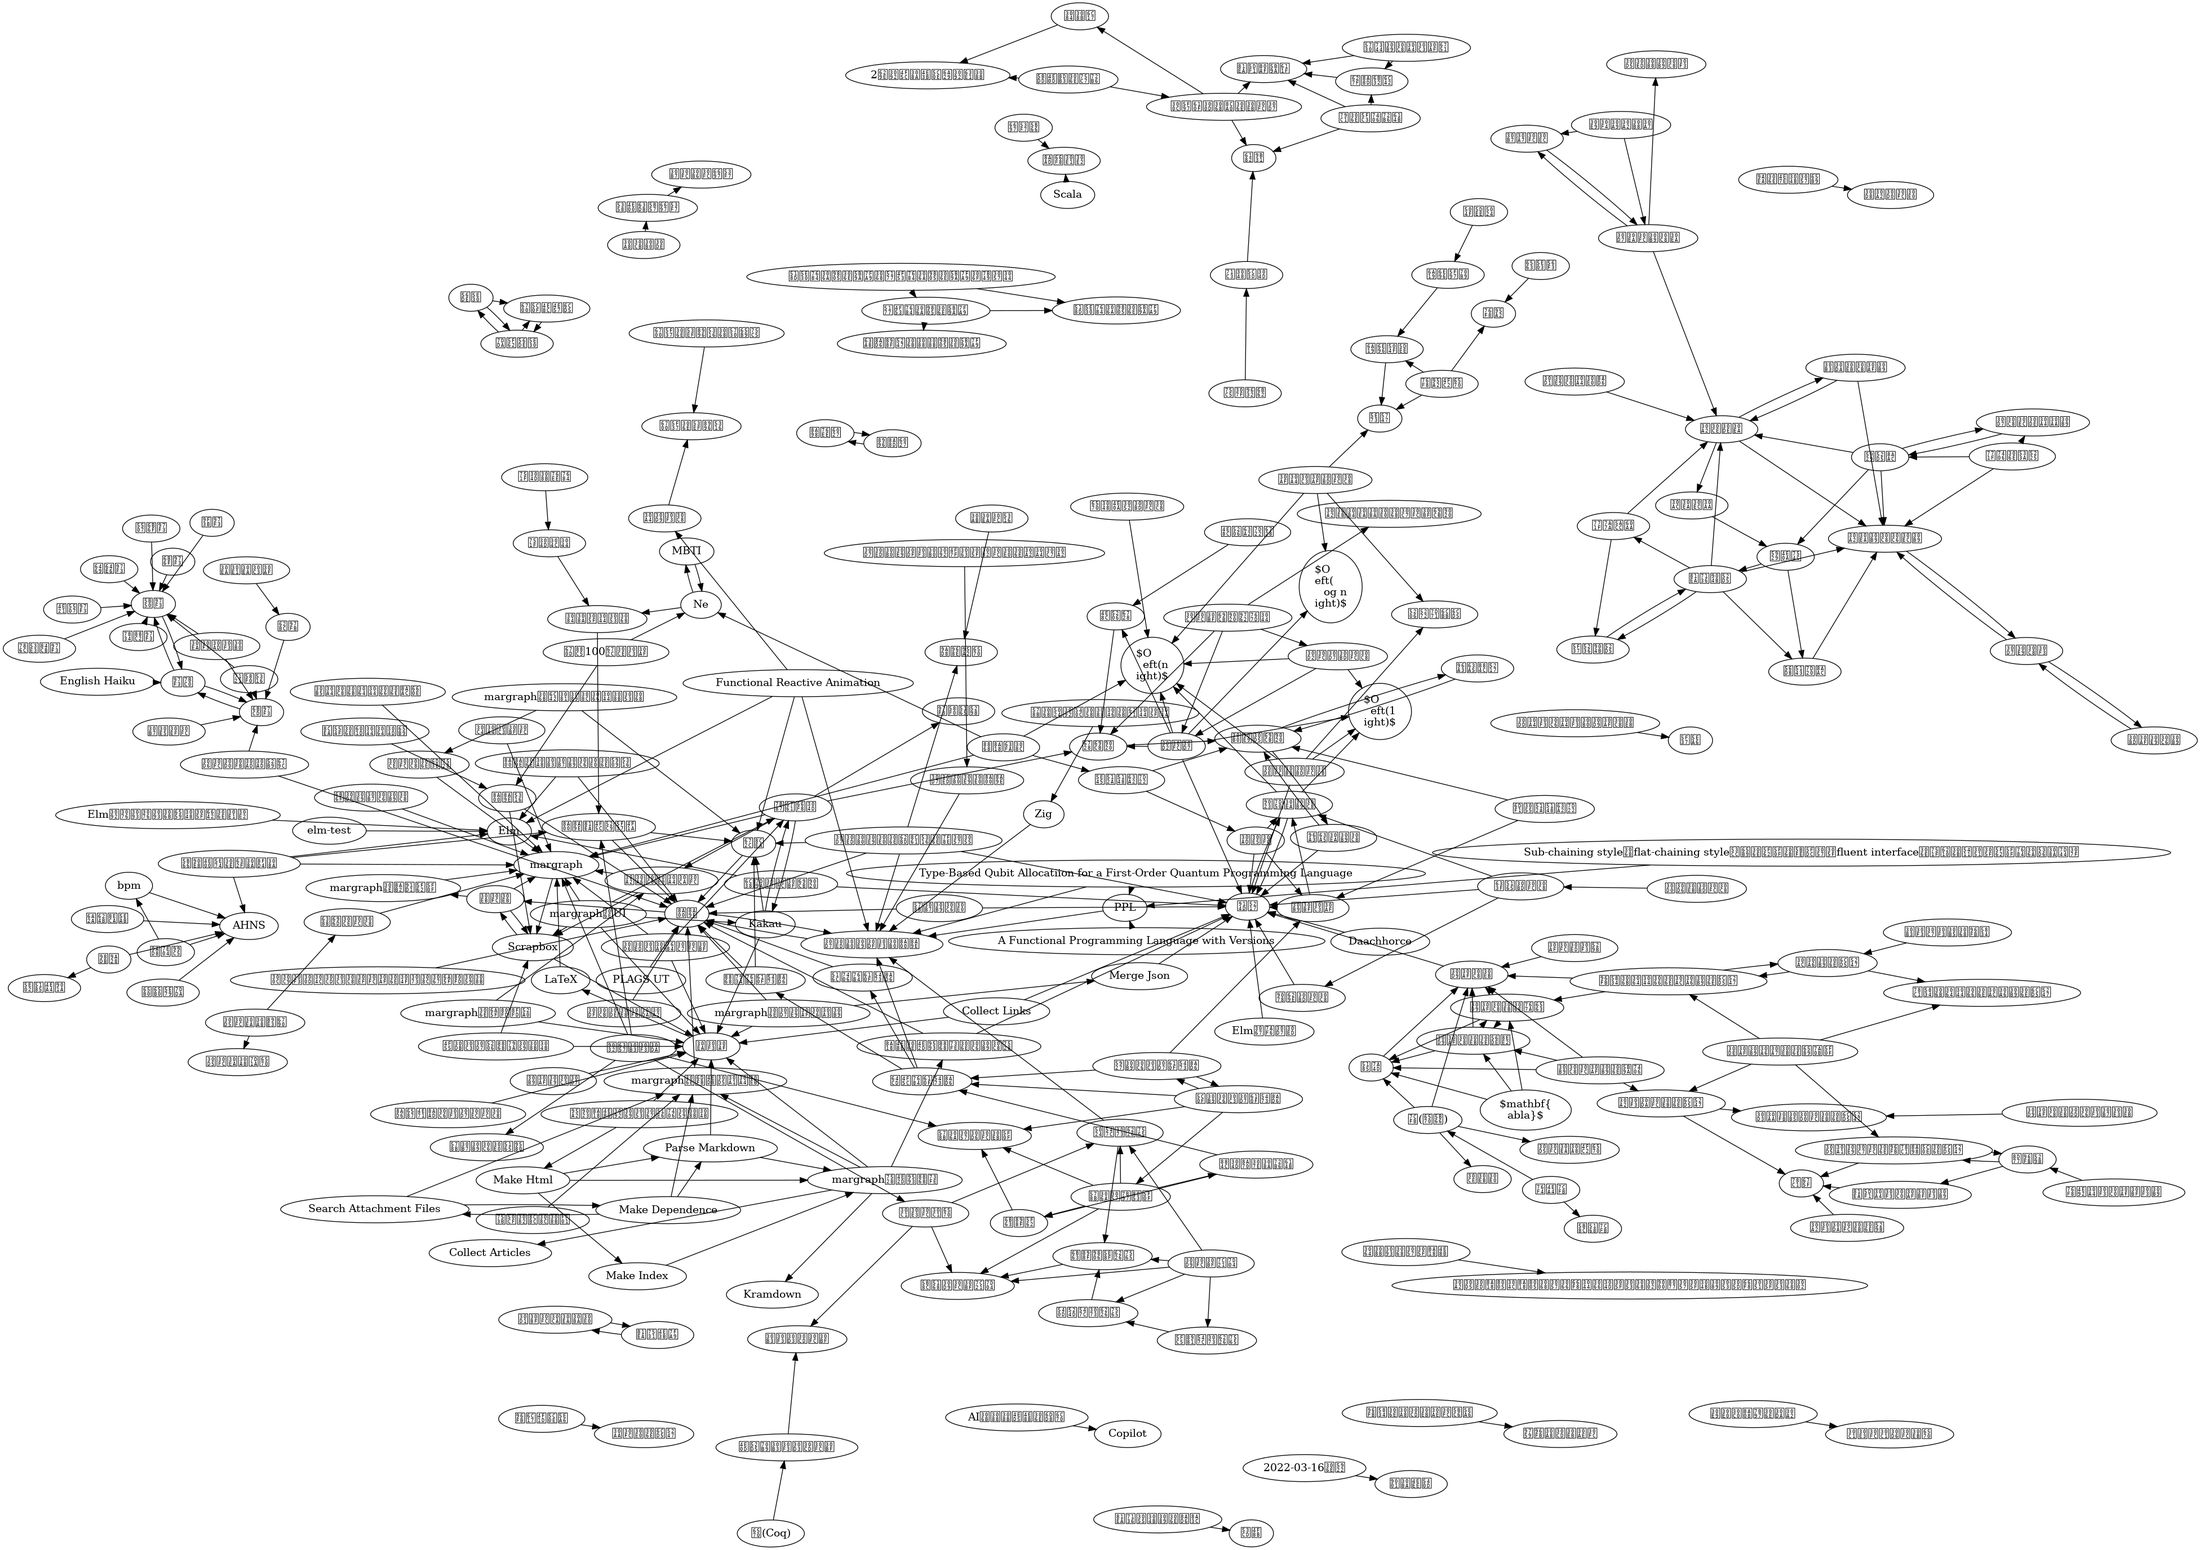
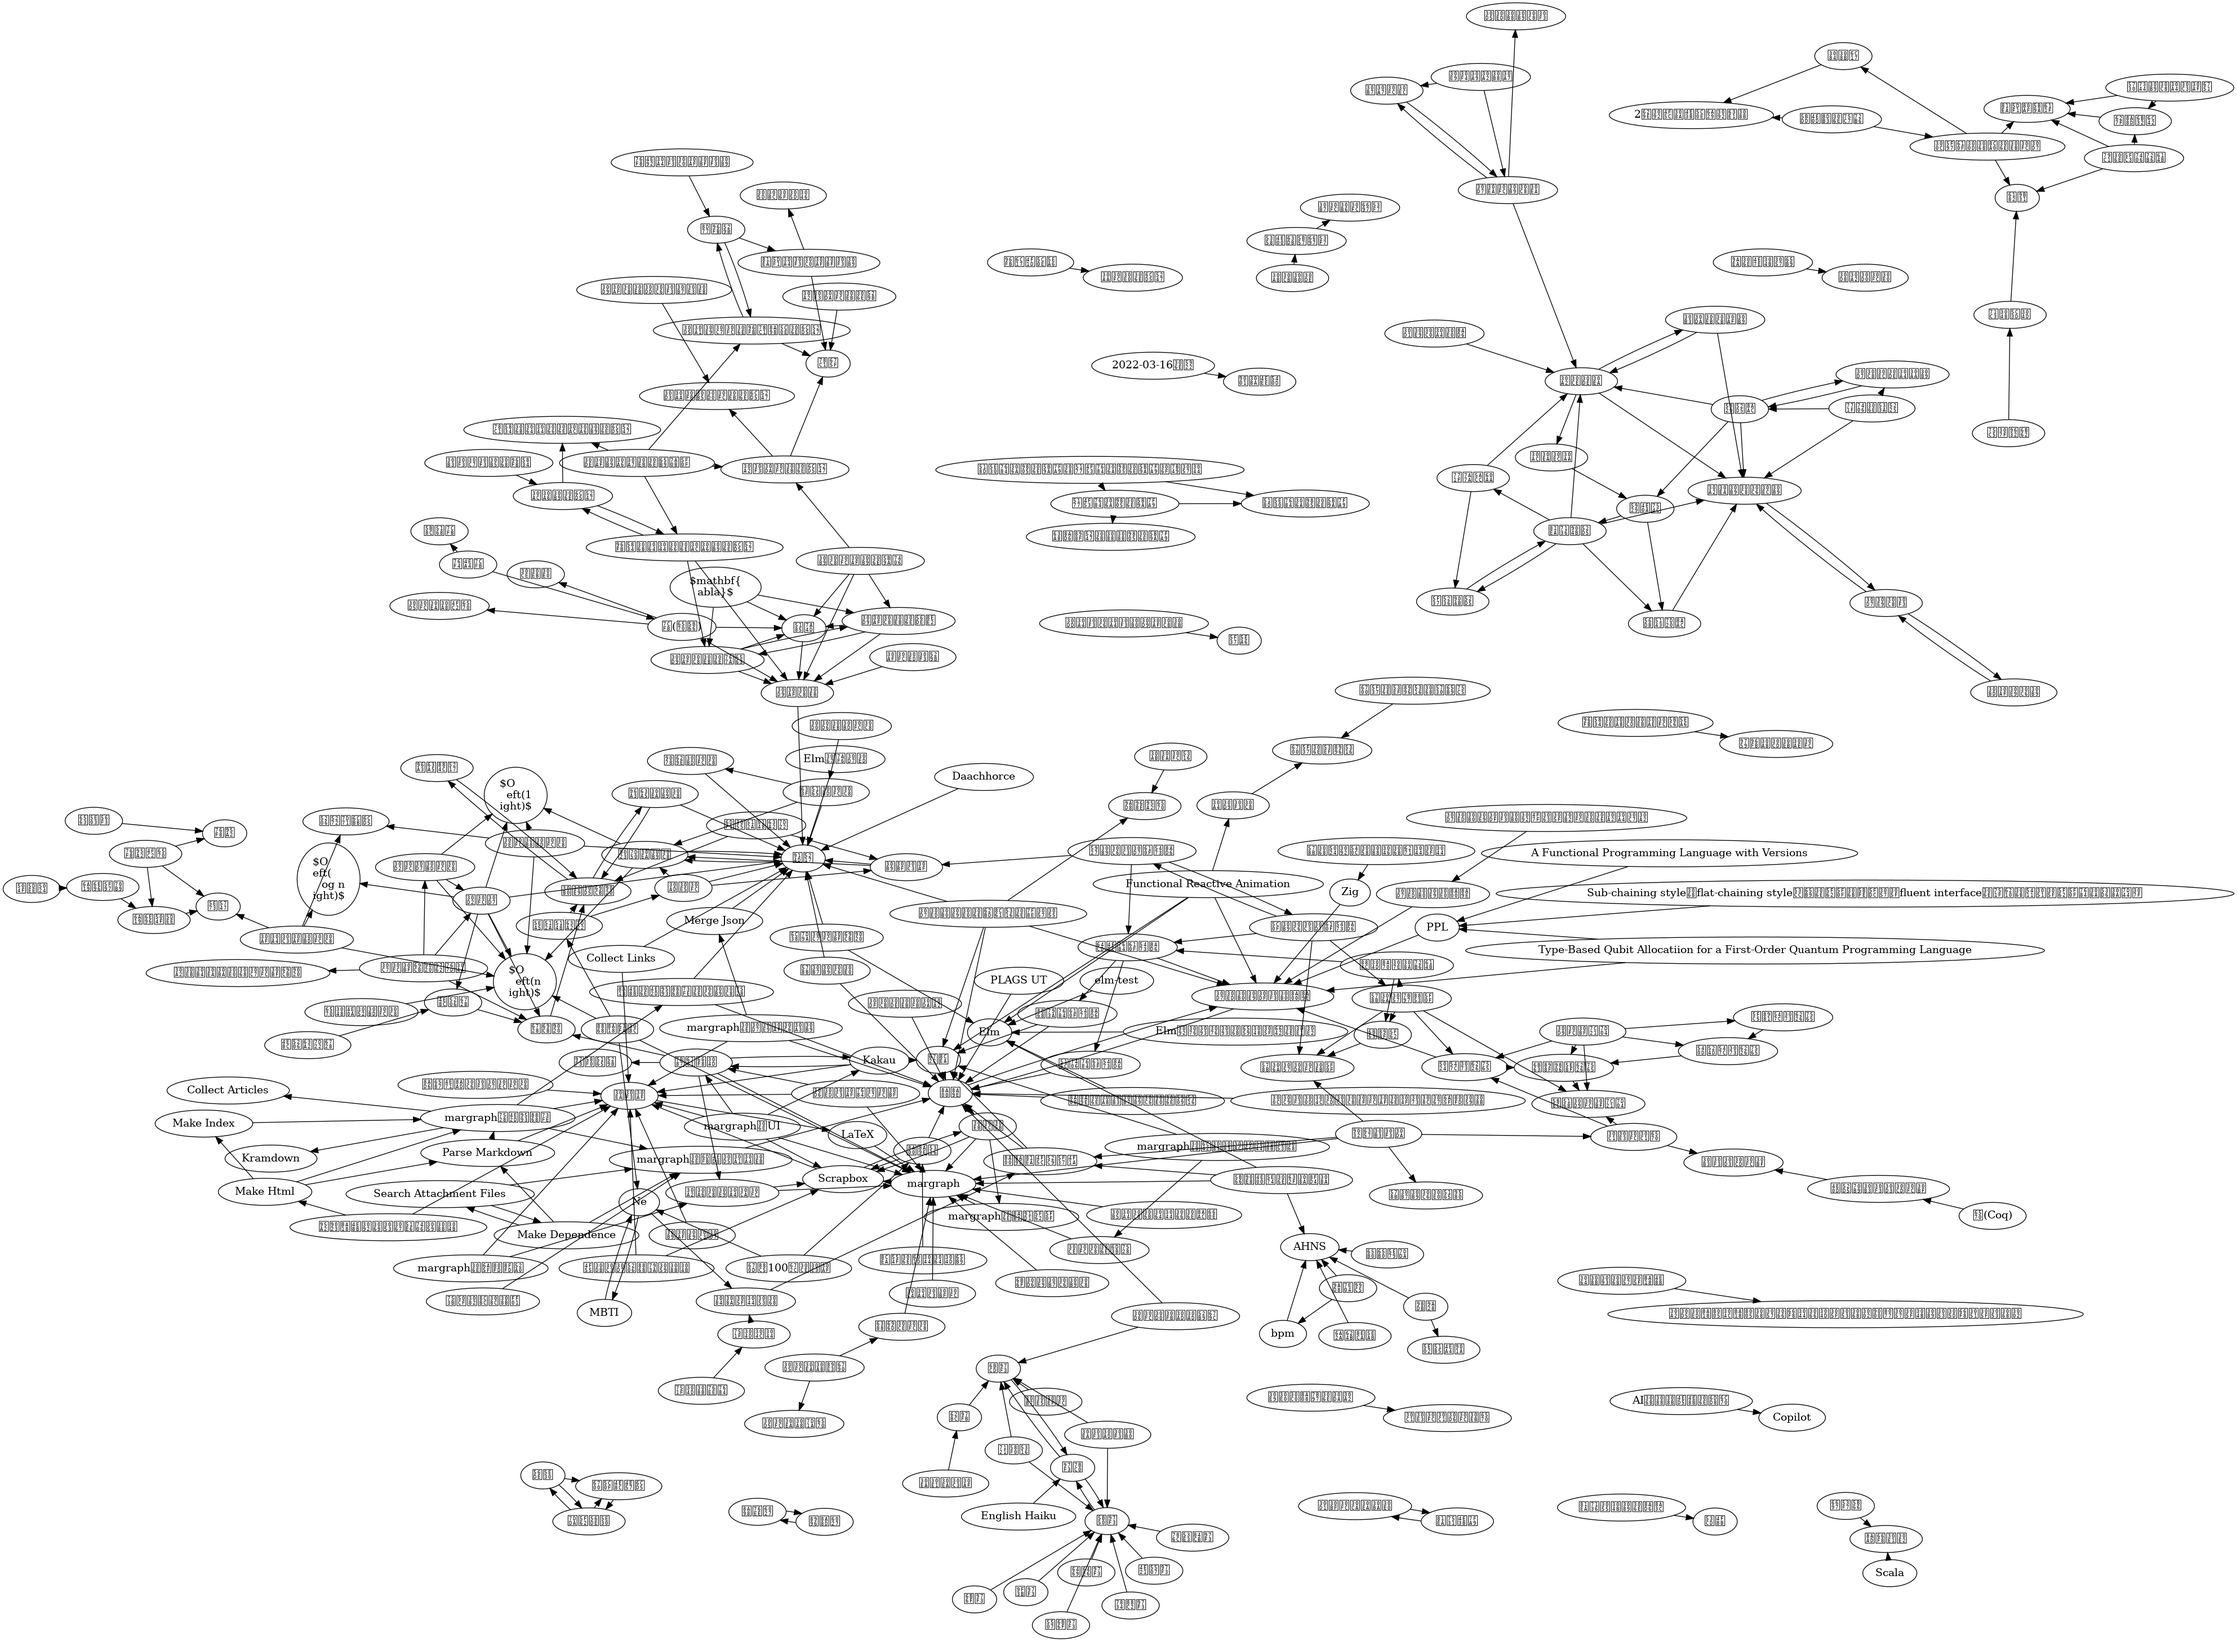
deploy: 46e53c934a90d0136afaa26ece41c292b4e7b748

diff --git a/other/sorehasou.html b/other/sorehasou.html
@@ -7,7 +7,7 @@
     <link rel="stylesheet" href="https://cdn.jsdelivr.net/npm/bootstrap-dark-5@1.1.3/dist/css/bootstrap-nightfall.min.css" media="(prefers-color-scheme: dark)">
     <link rel="stylesheet" href="https://cdnjs.cloudflare.com/ajax/libs/highlight.js/11.3.1/styles/base16/ashes.min.css">
     <link rel="stylesheet" href="../style.css" type="text/css">
-    <title>勉強法</title>
+    <title>それはそう</title>
     <meta NAME="robots" CONTENT="noindex,nofollow">
   </head>
   <body>
@@ -20,51 +20,22 @@
           
             <li class="breadcrumb-item"><a href="../other/index.html">other</a></li>
           
-          <li class="breadcrumb-item">勉強法</li>
+          <li class="breadcrumb-item">それはそう</li>
         </ol>
       </div>
     </nav>
 
     <article class="container" style="max-width: 40em;">
 
-      <h1>勉強法</h1>
+      <h1>それはそう</h1>
 
       
         <div class="contents">
         
             
               <div><ul>
-  <li>電磁気のテスト勉強で失敗したので
-    <ul>
-      <li>公式や単語をメモる形で行った
-        <ul>
-          <li>結局最後まで授業の流れが掴みきれなかった</li>
-        </ul>
-      </li>
-      <li>試験まで10時間を切った状態でやるには無謀だった
-        <ul>
-          <li>時間が足りなくなった</li>
-        </ul>
-      </li>
-      <li>完璧を目指せないのは分かってるんだから、過去問をもっとやった方がよかった</li>
-    </ul>
-  </li>
-  <li>結局は時間との勝負
-    <ul>
-      <li>時間取れない上に下手な勉強したらそりゃ失敗する</li>
-    </ul>
-  </li>
-  <li>なんだかノートが綺麗なのに勉強できない人的なあれ</li>
-  <li>ある程度の点だけを目指すなら過去問演習だけで良い気がする
-    <ul>
-      <li>ついていけない人にも単位を上げるため？に簡単な問題で基礎点を出す先生も多い
-        <ul>
-          <li>まずはそこを固めた上で、の方がいい</li>
-        </ul>
-      </li>
-    </ul>
-  </li>
-  <li>テスト勉強を直前になってから始めるのが悪い、って言うのはそう</li>
+  <li>自明、当然、みたいな意味合い</li>
+  <li>それはそう、なリストは何がおきるかな</li>
 </ul>
 </div>
             
@@ -85,7 +56,7 @@
             <div class="col">
               
                 前の記事<br />
-                <a href="../other/sorehasou.html">それはそう</a>
+                <a href="../other/skkfep.html">SKKFEP</a>
               
             </div>
             <div class="col">
@@ -97,7 +68,7 @@
             <div class="col">
               
                 次の記事<br />
-                <a href="../other/twitter.html">ツイッター</a>
+                <a href="../other/study.html">勉強法</a>
               
             </div>
           </div>
@@ -106,13 +77,43 @@
 
       <div class="d-flex flex-row-reverse">
         
-          <button type="button" class="btn btn-outline-primary btn-sm" onclick="window.location.href='https://github.com/soukouki/margraph/edit/master/src/other/study.md';">Edit</button>
+          <button type="button" class="btn btn-outline-primary btn-sm" onclick="window.location.href='https://github.com/soukouki/margraph/edit/master/src/other/sorehasou.md';">Edit</button>
         
         
       </div>
 
       
       <div class="link-network">
+        
+          <div class="row flex-nowrap overflow-auto">
+            <div class="col-4">
+              <div class="card h-100">
+                <div class="card-body">
+                  <h5 class="card-title fs-6"><a href="../lectures/electromagnetics/self-inductance.html">自己インダクタンス</a></h5>
+                  <p class="card-text">コイルを通る電流の変化のしにくさを示す値。単位はヘンリー。 電...</p>
+                </div>
+              </div>
+            </div>
+            
+              <div class="col-4">
+                <div class="card h-100">
+                  <div class="card-body">
+                    <h5 class="card-title fs-6"><a href="../lectures/electromagnetics/flux.html">磁束</a></h5>
+                    <p class="card-text">$\Phi$ (ギリシャ文字ファイの大文字)を使う。 回路を縁...</p>
+                  </div>
+                </div>
+              </div>
+            
+              <div class="col-4">
+                <div class="card h-100">
+                  <div class="card-body">
+                    <h5 class="card-title fs-6"><a href="../lectures/electromagnetics/electro-motive-force.html">起電力</a></h5>
+                    <p class="card-text">コイルに発生する起電力はファラデーの電磁誘導の法則から、 - ...</p>
+                  </div>
+                </div>
+              </div>
+            
+          </div>
         
       </div>
       

diff --git a/lectures/electromagnetics/self-inductance.html b/lectures/electromagnetics/self-inductance.html
@@ -57,7 +57,7 @@
             
           
             
-              <div>となり、自己インダクタンスはコイルの長さや断面積と言った、幾何学的要因によって決まるとわかる。まぁ同じ形のコイルを作ったら同じように働くと考えると、それはそう、という感じ。</div>
+              <div>となり、自己インダクタンスはコイルの長さや断面積と言った、幾何学的要因によって決まるとわかる。まぁ同じ形のコイルを作ったら同じように働くと考えると、<a href="../../other/sorehasou.html">それはそう</a>、という感じ。</div>
             
           
         </div>
@@ -141,6 +141,18 @@
                   </div>
                 </div>
               </div>
+            
+          </div>
+        
+          <div class="row flex-nowrap overflow-auto">
+            <div class="col-4">
+              <div class="card h-100">
+                <div class="card-body">
+                  <h5 class="card-title fs-6"><a href="../../other/sorehasou.html">それはそう</a></h5>
+                  <p class="card-text">- 自明、当然、みたいな意味合い - それはそう、なリストは何...</p>
+                </div>
+              </div>
+            </div>
             
           </div>
         

diff --git a/lectures/electromagnetics/flux.html b/lectures/electromagnetics/flux.html
@@ -109,6 +109,15 @@
               <div class="col-4">
                 <div class="card h-100">
                   <div class="card-body">
+                    <h5 class="card-title fs-6"><a href="../../other/sorehasou.html">それはそう</a></h5>
+                    <p class="card-text">- 自明、当然、みたいな意味合い - それはそう、なリストは何...</p>
+                  </div>
+                </div>
+              </div>
+            
+              <div class="col-4">
+                <div class="card h-100">
+                  <div class="card-body">
                     <h5 class="card-title fs-6"><a href="../../lectures/electromagnetics/electro-motive-force.html">起電力</a></h5>
                     <p class="card-text">コイルに発生する起電力はファラデーの電磁誘導の法則から、 - ...</p>
                   </div>

diff --git a/lectures/electromagnetics/electro-motive-force.html b/lectures/electromagnetics/electro-motive-force.html
@@ -137,6 +137,15 @@
               </div>
             </div>
             
+              <div class="col-4">
+                <div class="card h-100">
+                  <div class="card-body">
+                    <h5 class="card-title fs-6"><a href="../../other/sorehasou.html">それはそう</a></h5>
+                    <p class="card-text">- 自明、当然、みたいな意味合い - それはそう、なリストは何...</p>
+                  </div>
+                </div>
+              </div>
+            
           </div>
         
           <div class="row flex-nowrap overflow-auto">

diff --git a/other/index.html b/other/index.html
@@ -165,6 +165,10 @@
           </div>
         
           <div class="list-group-item">
+            <a href="../other/sorehasou.html">それはそう</a>
+          </div>
+        
+          <div class="list-group-item">
             <a href="../other/study.html">勉強法</a>
           </div>
         

diff --git a/other/skkfep.html b/other/skkfep.html
@@ -76,7 +76,7 @@
             <div class="col">
               
                 次の記事<br />
-                <a href="../other/study.html">勉強法</a>
+                <a href="../other/sorehasou.html">それはそう</a>
               
             </div>
           </div>
